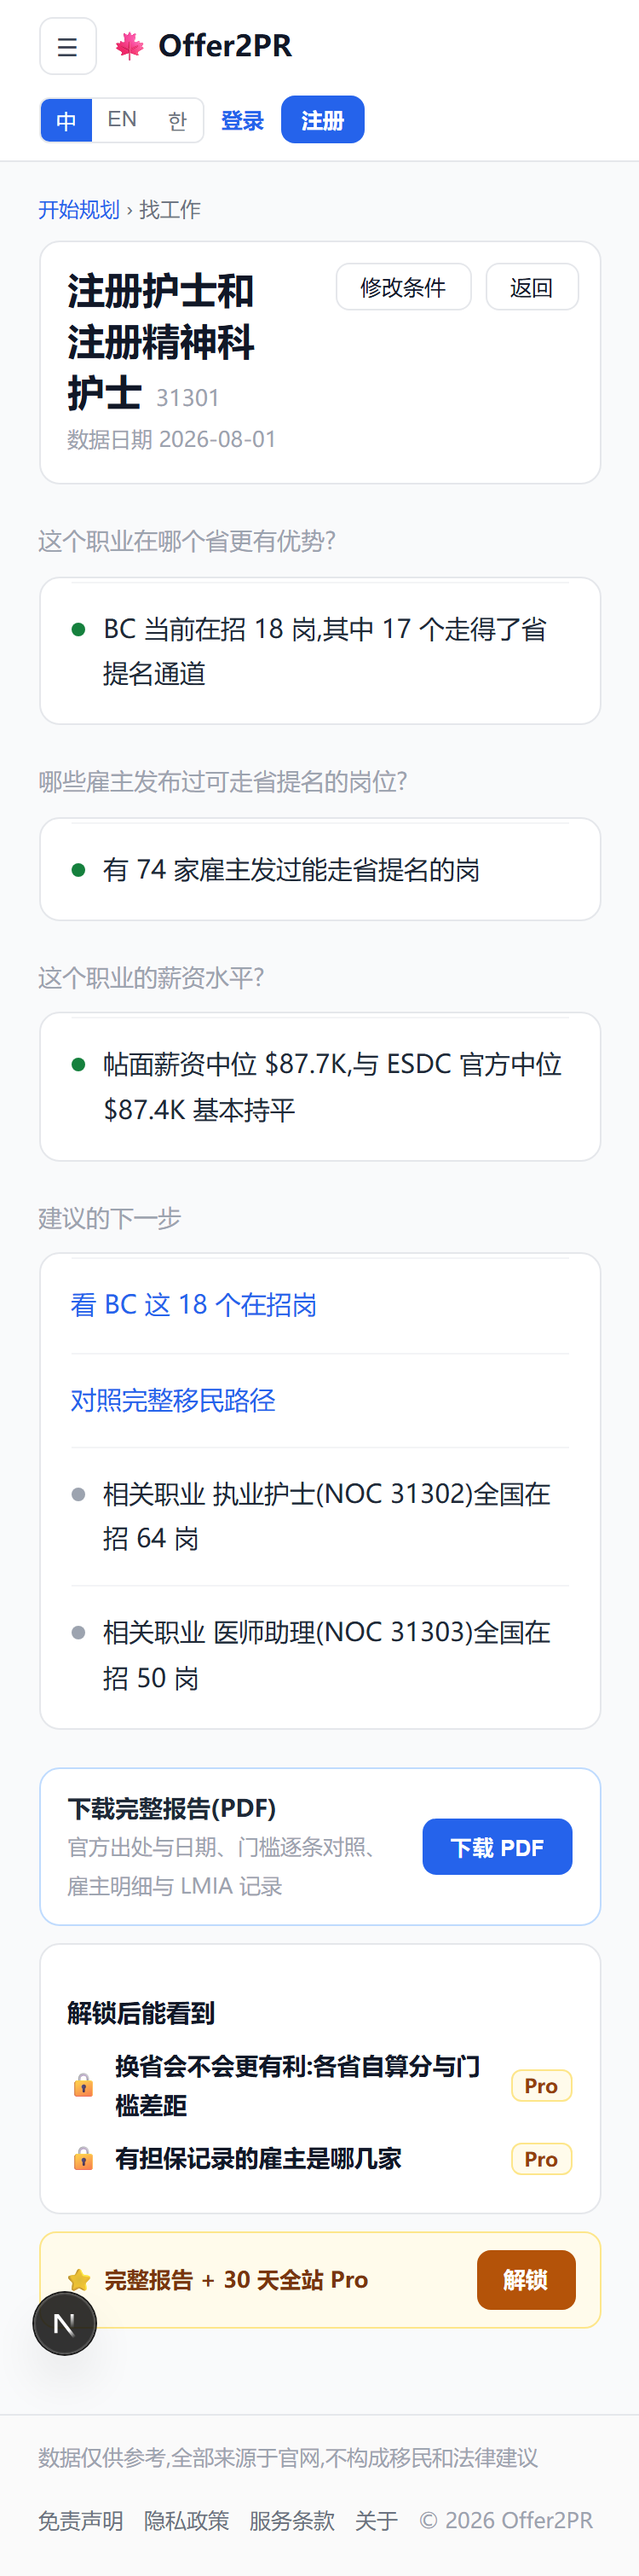
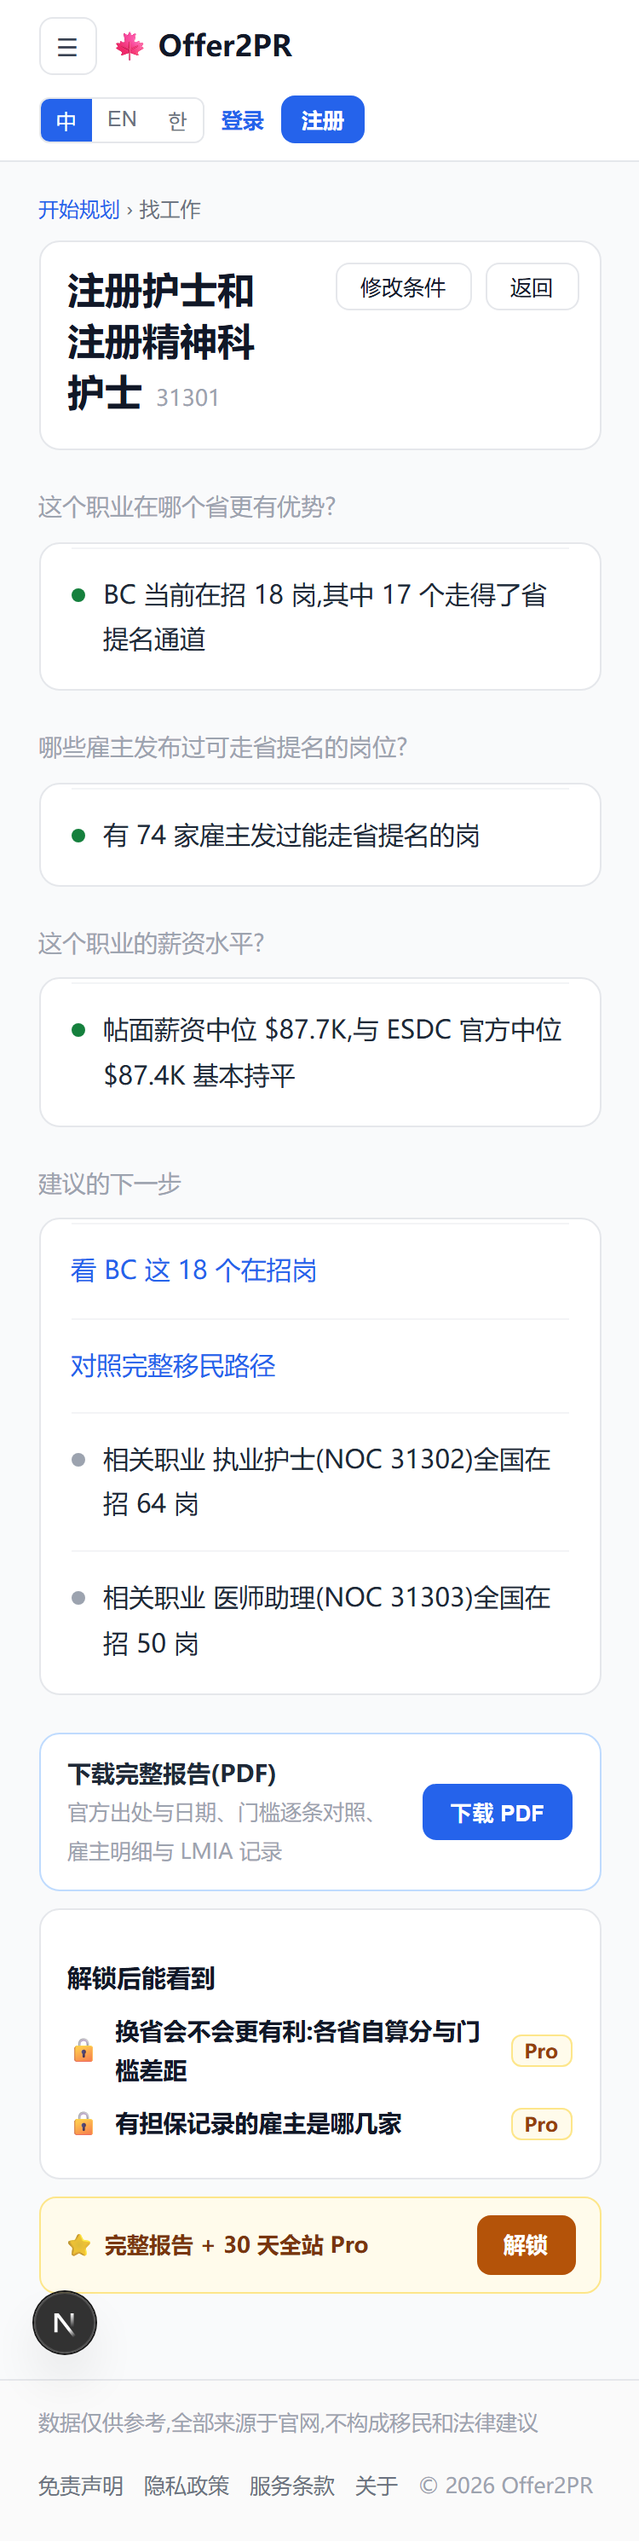
fix(报告): 删假的「数据日期」与逐节免责句;换省对照补上最近抽选线
三件 Frank 当场点掉/追加的:

① 卡头「数据日期 2026-08-01」删掉 —— 它的值是 facts.fetched = new Date(),
   即请求当天,跟数据新不新毫无关系;真日期跟着各自出处走,早就逐条列在「依据与链接」。
   打印页眉那个日期留着:在纸上它是「这份文件生成于哪天」,那是真的。rpt.asOf 三语文案一并删。

② 换省节尾巴那句免责删掉(「这个废话删了」)—— 法律免责由全站页脚统一承担,每节再来一遍是废话;
   每行都写「离**该省**门槛差多少」,本来也没请人横向比分数。

③ 补最近抽选事实(「不需要显示一下最近的最低分数吗」):有的给、没有的不编。
   · 最近一次抽选线 + 官方公布的邀请人数 → 每省行尾灰字(v5 定稿 HTML 里的 .tail,实装时欠着,这次补上);
   · 跨通道混抽只给区间 —— BC 近 6 次里 Rural Health 50、Innovate 132,把 50 说成「BC 最近一次」
     会让人以为自己够线了;
   · 没有分值表的省照样给抽选事实(MB:最近 2026-07-30 抽 632 分、发 74 份邀请);
   · **候选池规模与在池等待时长各省官方都不公布**,本站没有 → 不写,也不拿别的数冒充。

106 测试绿、tsc 干净;375/1280 实拍无横滚。

diff --git a/cms/src/app/(frontend)/jobs/i18n.ts b/cms/src/app/(frontend)/jobs/i18n.ts
@@ -324,15 +324,16 @@ const zh: Dict = {
   'rpt.s.cur.noTable': '当前选择 {prov}:该省未公布官方分值表,自算不了分数',
   'rpt.s.alt.pass': '改选 {prov}:自算至少 {total} 分,已过该省官方申请门槛 {mark} 分',
   'rpt.s.alt.mark': '改选 {prov}:自算至少 {total} 分,离该省门槛 {mark} 分最多差 {gap} 分;还有 {rest} 项没答,补齐只会更近',
-  'rpt.s.alt.band': '改选 {prov}:自算至少 {total} 分;该省近 {n} 次抽选线 {lo}–{hi} 分',
   'rpt.s.alt.plain': '改选 {prov}:自算至少 {total} 分(该省尚无门槛与抽选记录)',
   'rpt.s.alt.noTable': '改选 {prov}:该省未公布官方分值表,自算不了分数',
   'rpt.s.alt.noDraw': '改选 {prov}:自算至少 {total} 分;该省这条通道还没有抽选记录',
+  'rpt.s.tail.one': '最近 {date} 抽 {cut} 分',
+  'rpt.s.tail.oneInv': '最近 {date} 抽 {cut} 分,发 {inv} 份邀请',
+  'rpt.s.tail.band': '近 {n} 次 {lo}–{hi} 分',
   'rpt.s.next': '还没答的项里,{factorKey}在 {prov} 官方分值最高(最多 {pts} 分),先补它最划算',
   'rpt.s.offer': '拿到 {prov} 的雇主 offer,该省官方分值表给 {pts} 分',
-  'rpt.s.note': '分数依据各省官方分值表自算,不代表官方审核结果;各省分制互不相通,分数之间不可直接比较',
   'rpt.conf': '置信度', 'rpt.conf.low': '低', 'rpt.conf.mid': '中', 'rpt.conf.high': '高',
-  'rpt.asOf': '数据日期 {d}', 'rpt.src': '出处',
+  'rpt.src': '出处',
   'rpt.c.listedHit': '该职业已列入 {prov} 省提名清单「{label}」—— 当地在招 {open} 岗',
   'rpt.c.listedHitPart': '该职业已列入 {prov} 省提名清单「{label}」;当地在招 {open} 岗,其中 {named} 个走得了该通道',
   'rpt.c.listedMiss': '{prov} 公开清单查过:NOC {noc} 不在上面;当地 {open} 个在招岗走不了具体通道',
@@ -1035,15 +1036,16 @@ const en: Dict = {
   'rpt.s.cur.noTable': 'Currently targeting {prov}: this province publishes no points grid, so no score can be computed',
   'rpt.s.alt.pass': 'Switch to {prov}: at least {total} — already past its official {mark}-point threshold',
   'rpt.s.alt.mark': 'Switch to {prov}: at least {total} against its official {mark}-point threshold — at most {gap} short, and {rest} unanswered factor(s) can only narrow it',
-  'rpt.s.alt.band': 'Switch to {prov}: at least {total}; its last {n} draws cut off at {lo}–{hi}',
   'rpt.s.alt.plain': 'Switch to {prov}: at least {total} (no threshold or draw record yet)',
   'rpt.s.alt.noTable': 'Switch to {prov}: this province publishes no points grid, so no score can be computed',
   'rpt.s.alt.noDraw': 'Switch to {prov}: at least {total}; this stream has no draw record yet',
+  'rpt.s.tail.one': 'last draw {date}, cutoff {cut}',
+  'rpt.s.tail.oneInv': 'last draw {date}, cutoff {cut}, {inv} invited',
+  'rpt.s.tail.band': 'last {n} draws {lo}–{hi}',
   'rpt.s.next': 'Of the factors still unanswered, {factorKey} is worth the most in {prov} (up to {pts} points) — fill that in first',
   'rpt.s.offer': '{prov} awards {pts} points on its official grid for a job offer there',
-  'rpt.s.note': 'Scores are self-computed from each province official grid and are not an official assessment; the grids are separate systems and cannot be compared with each other',
   'rpt.conf': 'Confidence', 'rpt.conf.low': 'low', 'rpt.conf.mid': 'medium', 'rpt.conf.high': 'high',
-  'rpt.asOf': 'Data as of {d}', 'rpt.src': 'Source',
+  'rpt.src': 'Source',
   'rpt.c.listedHit': 'This occupation is on the {prov} PNP list "{label}" - {open} open postings there',
   'rpt.c.listedHitPart': 'This occupation is on the {prov} PNP list "{label}"; {named} of {open} open postings there qualify for that stream',
   'rpt.c.listedMiss': 'Checked the {prov} published list: NOC {noc} is not on it; {open} open postings there cannot use a named stream',
@@ -1717,15 +1719,16 @@ const ko: Dict = {
   'rpt.s.cur.noTable': '현재 선택 {prov}: 이 주는 공식 배점표가 없어 점수 산출 불가',
   'rpt.s.alt.pass': '{prov}로 변경: 최소 {total}점 — 공식 신청 기준 {mark}점을 이미 넘음',
   'rpt.s.alt.mark': '{prov}로 변경: 최소 {total}점, 공식 기준 {mark}점까지 많아야 {gap}점 부족; 미답 {rest}개를 채우면 격차는 줄어듦',
-  'rpt.s.alt.band': '{prov}로 변경: 최소 {total}점; 최근 {n}회 커트라인 {lo}–{hi}점',
   'rpt.s.alt.plain': '{prov}로 변경: 최소 {total}점(기준선·추첨 기록 아직 없음)',
   'rpt.s.alt.noTable': '{prov}로 변경: 이 주는 공식 배점표가 없어 점수 산출 불가',
   'rpt.s.alt.noDraw': '{prov}로 변경: 최소 {total}점; 이 스트림은 아직 추첨 기록 없음',
+  'rpt.s.tail.one': '최근 {date} 커트라인 {cut}점',
+  'rpt.s.tail.oneInv': '최근 {date} 커트라인 {cut}점, {inv}명 초청',
+  'rpt.s.tail.band': '최근 {n}회 {lo}–{hi}점',
   'rpt.s.next': '아직 답하지 않은 항목 중 {factorKey}이(가) {prov}에서 배점이 가장 큼(최대 {pts}점) — 먼저 채우는 게 유리',
   'rpt.s.offer': '{prov}의 잡오퍼를 받으면 해당 주 공식 배점표에서 {pts}점',
-  'rpt.s.note': '점수는 각 주 공식 배점표로 자체 산출한 값이며 공식 심사 결과가 아님; 주별 배점 체계가 달라 서로 비교 불가',
   'rpt.conf': '신뢰도', 'rpt.conf.low': '낮음', 'rpt.conf.mid': '중간', 'rpt.conf.high': '높음',
-  'rpt.asOf': '데이터 기준일 {d}', 'rpt.src': '출처',
+  'rpt.src': '출처',
   'rpt.c.listedHit': '이 직종은 {prov} 주정부 지명 목록 "{label}"에 포함 - 현지 채용 {open}건',
   'rpt.c.listedHitPart': '이 직종은 {prov} 주정부 지명 목록 "{label}"에 포함. 현지 채용 {open}건 중 {named}건이 해당 스트림 가능',
   'rpt.c.listedMiss': '{prov} 공개 목록 확인 결과 NOC {noc}은 목록에 없습니다. 현지 {open}건은 지정 스트림 이용 불가',

diff --git a/cms/src/app/(frontend)/plan/PlanPrView.tsx b/cms/src/app/(frontend)/plan/PlanPrView.tsx
@@ -34,7 +34,7 @@ surveyLocalization.locales.ko.questionsProgressText = '{0}/{1} 완료'
 // 答案存储与档位换算都归 lib/answers + lib/fields(2026-07-31 统一题库:一个 key、一处换算);
 // 本页只管两态与版式,不再自己存答案、不再自己抄 CLB/EXP/PROVS 映射表。
 
-type RptLine = { key: string; params: Record<string, string | number>; verdict?: string; source?: { label: string; url: string; fetched: string }; url?: string }
+type RptLine = { key: string; params: Record<string, string | number>; verdict?: string; source?: { label: string; url: string; fetched: string }; url?: string; tail?: { key: string; params: Record<string, string | number> } }
 type Lane = { kind: 'prov' | 'ee' | 'alts'; verdict?: string; key: string; params: Record<string, string | number> }
 type Emp = { name: string; slug: string; named: number; eligible: number; city: string; province: string; lastPosted: string; lmiaPositions: number | null; lmiaQuarter: string; aip: boolean; area: string; empRevenue: number | null; empStaff: number | null }
 type Rpt = {
@@ -80,6 +80,8 @@ function Line({ l, t }: { l: RptLine; t: TFn }) {
     <li style={{ margin: 0, padding: '14px 0', borderTop: `1px solid ${UI.hairline}`, lineHeight: 1.75, fontSize: 15, listStyle: 'none', display: 'flex', gap: 11, alignItems: 'baseline' }}>
       <span style={{ width: 8, height: 8, borderRadius: '50%', flexShrink: 0, background: V_DOT[l.verdict ?? 'na'], position: 'relative', top: -1 }} />
       <span style={{ flex: 1, minWidth: 0 }}>{t(l.key, params)}</span>
+      {/* 行尾灰字(v5 定稿 .tail):桌面靠右一列,手机(<=640)自成一行、跟正文左对齐 */}
+      {l.tail ? <span className="rptTail" style={{ color: UI.text3, fontSize: 13.5, whiteSpace: 'nowrap', flexShrink: 0, fontVariantNumeric: 'tabular-nums' }}>{t(l.tail.key, l.tail.params)}</span> : null}
     </li>
   )
 }
@@ -298,10 +300,12 @@ export function PlanPrView({ decision = 'pr' }: { decision?: 'pr' | 'job' | 'car
               {t(stage === 'explore' ? 'plan.explore.sub' : `plan.${decision}.sub`)}
             </div>
           ) : (
-            // 职业名已经升成 H1;这里只在**还没选职业**时留一个入口(空报告说「先选职业」却没入口=死路)
+            // 职业名已经升成 H1;这里只在**还没选职业**时留一个入口(空报告说「先选职业」却没入口=死路)。
+            // 「数据日期」那行 2026-08-01 撤掉(Frank):它的值是请求当天的 new Date(),
+            // 跟数据新不新毫无关系 —— 真日期跟着各自出处走,已经逐条列在底部「依据与链接」里。
             rpt && rpt !== 'loading' && !rpt.noc
               ? <div className="noPrint" style={{ margin: '6px 0 2px' }}><OccChip noc="" nocTitle="" t={t} onPick={() => gotoQuiz()} /></div>
-              : <div style={{ fontSize: 12.5, color: UI.text3 }}>{rpt && rpt !== 'loading' && rpt.asOf ? t('rpt.asOf', { d: rpt.asOf }) : ''}</div>
+              : null
           )}
         </div>
 
@@ -387,7 +391,10 @@ export function PlanPrView({ decision = 'pr' }: { decision?: 'pr' | 'job' | 'car
             {/* v2c 五段:① hero 大数字 ② 三卡判定 ③ 结论/缺口 ④ 编号下一步 ⑤ 锁区+CTA+hook */}
             <style>{`.rptHero{display:flex;flex-direction:column;gap:10px}
 .rptLanes{display:grid;gap:10px;grid-template-columns:repeat(3,1fr)}
-@media(max-width:640px){.rptHero{gap:8px}.rptLanes{grid-template-columns:repeat(2,1fr)}.rptLanes>:first-child{grid-column:1/-1}}
+@media(max-width:640px){.rptHero{gap:8px}.rptLanes{grid-template-columns:repeat(2,1fr)}.rptLanes>:first-child{grid-column:1/-1}
+  /* 行尾灰字在手机上自成一行(挤在句尾会把正文压成一列一个字) */
+  .rptTail{width:100%;padding-left:19px;white-space:normal !important}}
+@media(min-width:641px){.rptTail{margin-left:auto}}
 @media(min-width:641px){.rptHero{flex-direction:row;align-items:center;gap:30px}}
 /* 存 PDF = 浏览器打印(react-pdf 已评估否决:CJK 字体必须内嵌是决定性成本)。
    打印稿只留内容:导航、按钮、锁区与 CTA 都不印(那是屏幕上的操作件与营销位,印在纸上是噪音);

diff --git a/cms/tests/int/report.int.spec.ts b/cms/tests/int/report.int.spec.ts
@@ -345,7 +345,7 @@ const swFacts = (o: Partial<ReportFacts> = {}) => facts({
   byProv: [{ province: 'BC', open: 19, named: 18 }, { province: 'SK', open: 12, named: 12 }],
   ...o,
 })
-const sw = (r: { switches: { key: string; params: Record<string, string | number>; url?: string }[] }, key: string) =>
+const sw = (r: { switches: { key: string; params: Record<string, string | number>; url?: string; tail?: { key: string; params: Record<string, string | number> } }[] }, key: string) =>
   r.switches.find((l) => l.key === key)
 
 describe('换省对照节(L2-08)', () => {
@@ -376,16 +376,27 @@ describe('换省对照节(L2-08)', () => {
     expect(sw(passed, 'rpt.s.alt.mark')).toBeUndefined()
   })
 
-  it('无门槛但有抽选记录 → 摆抽选区间;没有分值表的省明说未公布', () => {
-    const r = buildPrReport(base({ targetProvinces: ['SK'] }), exp12, dims, swFacts({
+  it('抽选事实进行尾灰字:同一通道给「最近一次 X 分 + 邀请数」,跨通道只给区间', () => {
+    // 单通道:最近一次的线与官方公布的邀请人数都是真数(候选池规模与在池时长各省不公布,本站不编)
+    const one = buildPrReport(base({ targetProvinces: ['SK'] }), exp12, dims, swFacts({
       draws: [
-        { province: 'BC', drawDate: '2026-07-20', stream: 'Care: Health', score: 96 },
-        { province: 'BC', drawDate: '2026-07-06', stream: 'Care: Health', score: 88 },
+        { province: 'BC', drawDate: '2026-07-20', stream: 'Care: Health', score: 96, invitations: 60 },
+        { province: 'BC', drawDate: '2026-07-06', stream: 'Care: Health', score: 88, invitations: 44 },
       ],
     }))
-    const band = sw(r, 'rpt.s.alt.band')
-    expect(band?.params.prov).toBe('BC')
-    expect([band?.params.lo, band?.params.hi, band?.params.n]).toEqual([88, 96, 2])
+    const bc = one.switches.find((l) => l.params.prov === 'BC')!
+    expect(bc.tail?.key).toBe('rpt.s.tail.oneInv')
+    expect(bc.tail?.params).toMatchObject({ date: '2026-07-20', cut: 96, inv: 60 })
+    // 跨通道混抽:不给「最近一次 50 分」(BC 近几轮 Health 50 / Innovate 132,拿 50 当门面会让人以为够线了)
+    const mixed = buildPrReport(base({ targetProvinces: ['SK'] }), exp12, dims, swFacts({
+      draws: [
+        { province: 'BC', drawDate: '2026-07-23', stream: 'Rural Health', score: 50, invitations: 60 },
+        { province: 'BC', drawDate: '2026-07-16', stream: 'Innovate', score: 132, invitations: 346 },
+      ],
+    }))
+    const bc2 = mixed.switches.find((l) => l.params.prov === 'BC')!
+    expect(bc2.tail?.key).toBe('rpt.s.tail.band')
+    expect(bc2.tail?.params).toMatchObject({ n: 2, lo: 50, hi: 132 })
     const ab = buildPrReport(base({ targetProvinces: ['AB'] }), exp12, dims, swFacts())
     expect(sw(ab, 'rpt.s.cur.noTable')?.params.prov).toBe('AB')
   })
@@ -406,9 +417,9 @@ describe('换省对照节(L2-08)', () => {
     expect(nd?.params.system).toBe('OINP EOI points')   // 分制短名:自报通道那截不印进句子
   })
 
-  it('免责常驻 + 缺项钩子指完整估分器', () => {
+  it('缺项钩子指完整估分器;免责句不再逐节重复(全站页脚已有)', () => {
     const r = buildPrReport(base(), exp12, dims, swFacts())
-    expect(r.switches[r.switches.length - 1].key).toBe('rpt.s.note')
+    expect(keys(r.switches)).not.toContain('rpt.s.note')
     expect(sw(r, 'rpt.s.next')?.url).toBe('/pathways')
   })
 

diff --git a/cms/src/lib/reportFacts.ts b/cms/src/lib/reportFacts.ts
@@ -7,6 +7,9 @@ import type { ScoreFactor } from './pnpSelfScore'
 import type { ReportFacts } from './report'
 import type { Requirement } from './rules'
 
+// 注意:这是**报告生成日**(请求当天),不是数据的新鲜度 —— 各条事实的真实日期跟着自己的出处走
+// (清单 fetched / 分值表 fetched / 抽选轮次日期),报告里也是逐条列在「依据与链接」。
+// 2026-08-01 起卡头不再拿它冒充「数据日期」,只留在打印页眉当文件生成日。
 const TODAY = () => new Date().toISOString().slice(0, 10)
 const EMPTY: ReportFacts = { noc: '', title: '', teer: null, byProv: [], draws: [], scoreProvinces: [], requirements: [], fetched: '' }
 
@@ -120,7 +123,7 @@ export async function assembleReportFacts(pool: any, noc: string): Promise<Repor
        GROUP BY province`, [noc]),
     // 省抽选(FED=联邦轮次在引擎里走 EE 独立信号,这里不带);近 120 行足够覆盖各省近 6 次
     pool.query(
-      `SELECT province, draw_date, stream, score FROM pnp_draws
+      `SELECT province, draw_date, stream, score, invitations FROM pnp_draws
        WHERE score IS NOT NULL AND COALESCE(draw_date,'') <> '' AND province <> 'FED'
        ORDER BY draw_date DESC LIMIT 120`).catch(() => ({ rows: [] })),
     // 官方分值表整张取回(120 行级):换省对照节(L2-08)要按行匹档位,不只要省名 ——
@@ -169,7 +172,7 @@ export async function assembleReportFacts(pool: any, noc: string): Promise<Repor
       effective: r.effective ?? '', url: r.url ?? '', pageUrl: r.page_url ?? '', fetched: r.fetched ?? '',
     })),
     draws: draws.rows.map((r: any) => ({
-      province: r.province ?? '', drawDate: String(r.draw_date ?? ''), stream: r.stream ?? '', score: num(r.score),
+      province: r.province ?? '', drawDate: String(r.draw_date ?? ''), stream: r.stream ?? '', score: num(r.score), invitations: num(r.invitations),
     })),
     scoreFactors: factorRows,
     scoreProvinces: Array.from(new Set(factorRows.map((f) => f.province))),
